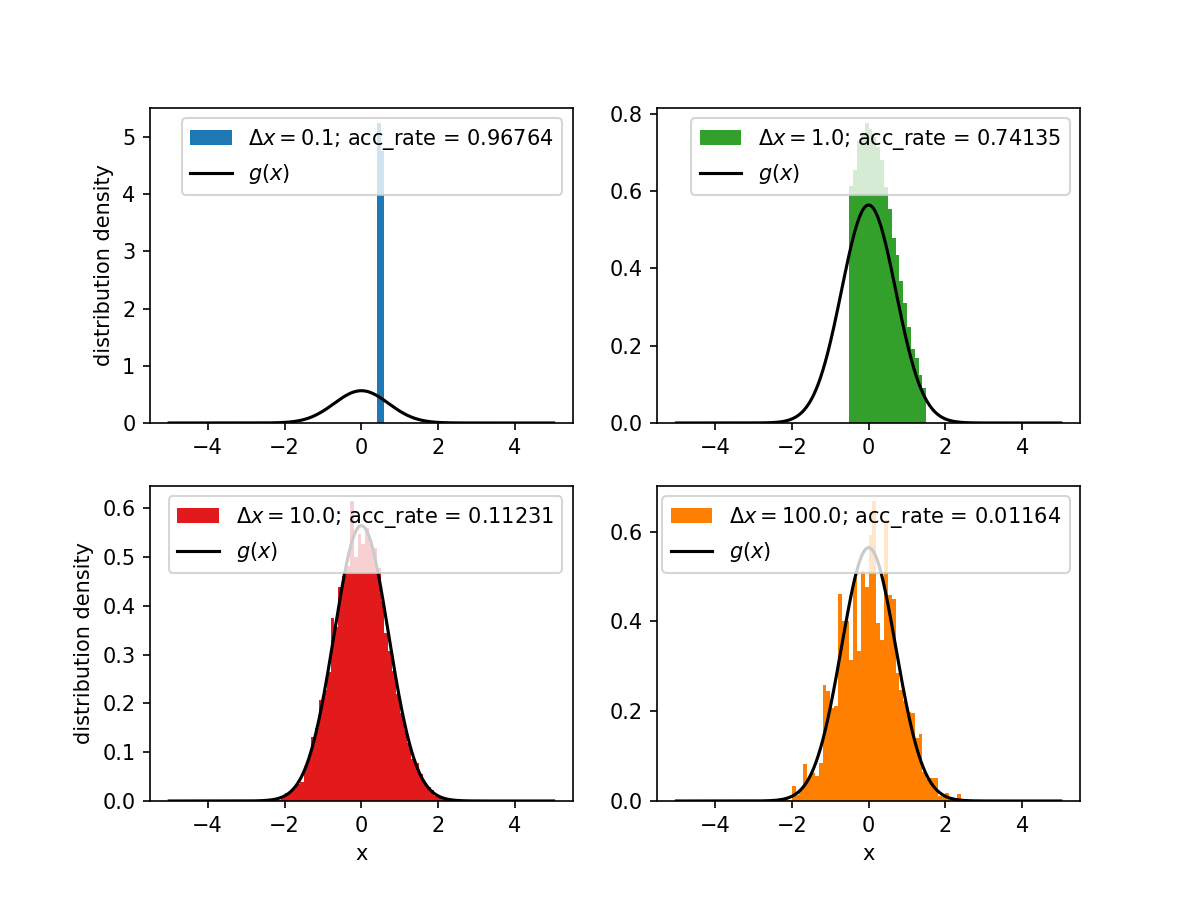
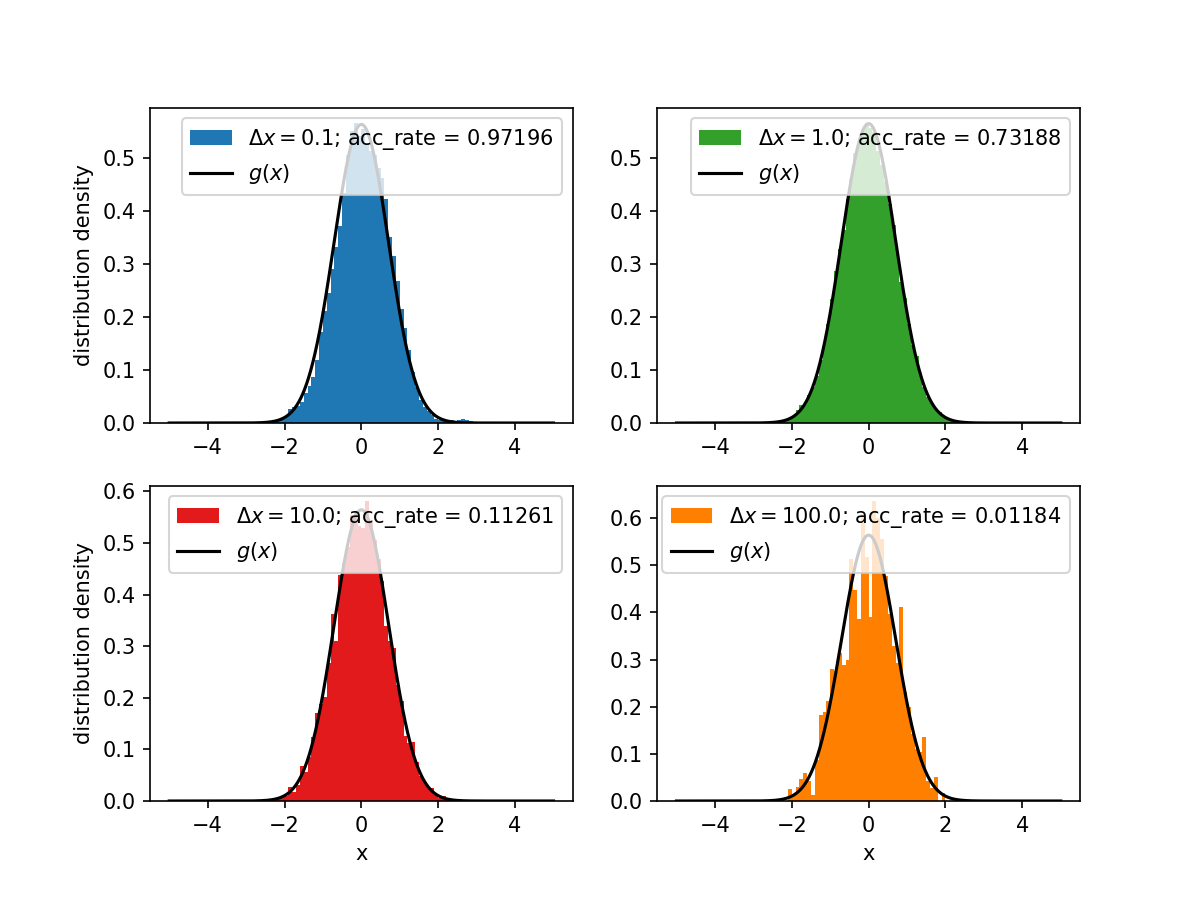
Found the error in ex_2.

diff --git a/sm1_worksheet_5/solutions/ex_2.py b/sm1_worksheet_5/solutions/ex_2.py
@@ -3,6 +3,7 @@ import matplotlib.pyplot as plt
 
 import os
 from typing import Tuple, Callable
+from tqdm import tqdm
 
 from functools import partial
 
@@ -46,22 +47,22 @@ def metropolis(
             list: list of consecutively drawn states
             float: resulting acceptance rate during metropolis-algo  
     """
-    states_list = np.zeros(N, dtype=float)
-    acceptance_list = np.zeros(N, dtype=float)
+    states_list = []
+    acceptance_number = 0
 
     current_state = phi0
-    for iteration in range(N):
-        trial_state = trial_move(phi0)
+    for iteration in tqdm(range(N), desc='MC Sampling iteration: '):
+        trial_state = trial_move(current_state)
         r = np.random.uniform(0.0, 1.0)
 
         if r < np.min([1.0, P(trial_state) / P(current_state)]):
             current_state = trial_state
 
-            acceptance_list[iteration] = 1.0
+            acceptance_number += 1.0
         
-        states_list[iteration] = current_state
+        states_list.append(current_state) 
 
-    return states_list, acceptance_list.mean()
+    return np.asarray(states_list), acceptance_number/N
 
 if __name__=="__main__":
     # generate 4 sample list with N=100000
